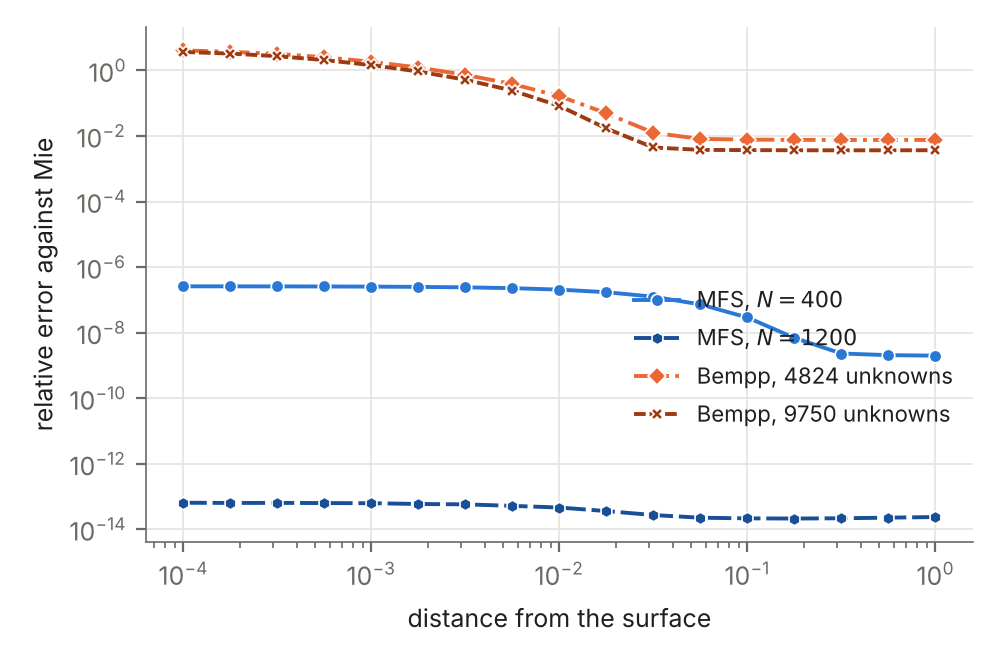
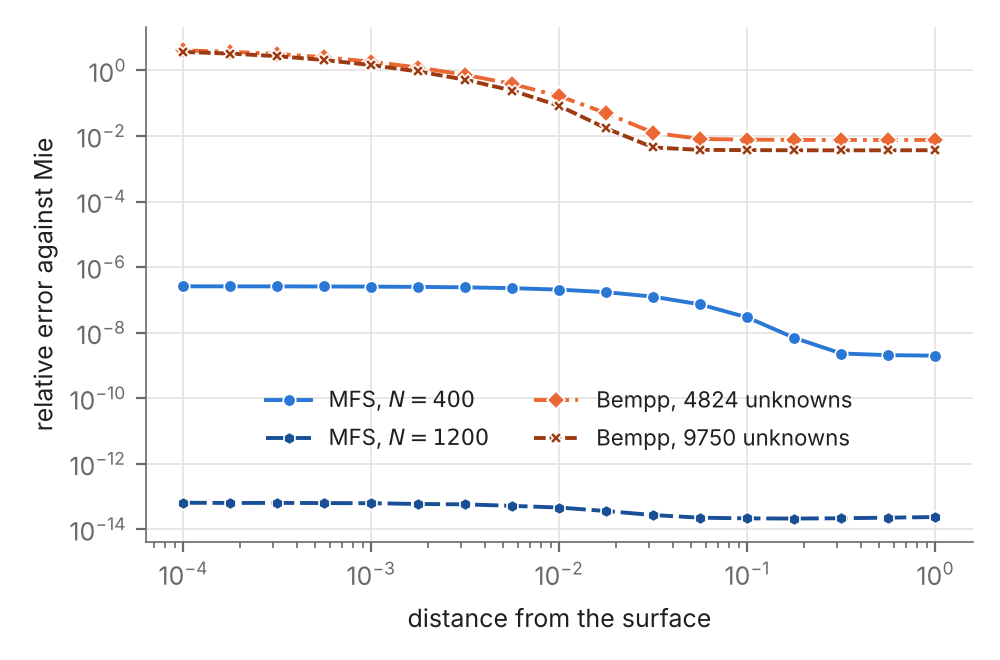
Near-surface figure: legend off the curves; paper rebuilt

Changed region(s): [[0.527, 0.4242, 0.961, 0.697], [0.279, 0.5758, 0.496, 0.697]]

diff --git a/validation/sphere_nearfield.py b/validation/sphere_nearfield.py
@@ -67,7 +67,7 @@ if __name__ == "__main__":
     ax.grid(True, which="major", color="#e4e3df", lw=0.6)
     for sp in ("top", "right"):
         ax.spines[sp].set_visible(False)
-    ax.legend(frameon=False, fontsize=8, loc="center right", bbox_to_anchor=(1.0, 0.36))
+    ax.legend(frameon=False, fontsize=8, loc="center", bbox_to_anchor=(0.5, 0.24), ncol=2)
     fig.tight_layout()
     fig.savefig("fig_sphere_nearfield.pdf")
     fig.savefig("fig_sphere_nearfield.png", dpi=200)
